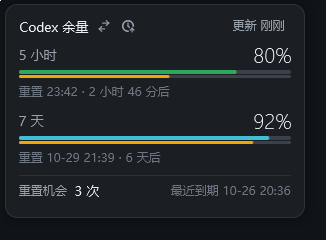
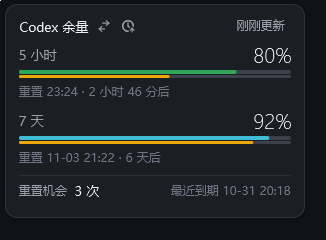
feat: three freshness states; stale data keeps its numbers readable

diff --git a/src/ui.rs b/src/ui.rs
@@ -89,18 +89,39 @@ pub fn neutral_bar(light: bool) -> Rgba {
     }
 }
 
+/// One step lighter than `neutral_bar`: "this number is old", not "this number
+/// is gone". Two different failures need two different greys, otherwise a slow
+/// refresh looks exactly like a broken one.
+pub fn faded_bar(light: bool) -> Rgba {
+    if light {
+        Rgba::hex(0xB2BAC6)
+    } else {
+        Rgba::hex(0x5C6472)
+    }
+}
+
+/// How much the numbers on screen can still be trusted.
+#[derive(Clone, Copy, PartialEq, Eq, Debug)]
+pub enum Freshness {
+    /// fetched on schedule, nothing to apologise for
+    Fresh,
+    /// no error, but the sample is older than `STALE_AFTER`
+    Stale,
+    /// the latest attempt failed; `err` says why
+    Failing,
+}
+
 /// The two bars answer different questions. The 5h bar's colour is its
 /// **severity** (green / amber / red); the 7d bar's colour is its **identity**
 /// (cyan), so the two rows are told apart by colour instead of by weight and
-/// the bar never looks like it changed meaning. Grey wins over both when the
-/// data is stale.
-fn bar_fill(t: &Theme, row: &RowView, dim: bool) -> Rgba {
-    if dim {
-        neutral_bar(t.light)
-    } else if row.limit_secs >= 86_400 {
-        t.day
-    } else {
-        severity(row.remaining)
+/// the bar never looks like it changed meaning. Old data gives up its colour
+/// (faded grey), failed data gives up more (neutral grey).
+fn bar_fill(t: &Theme, row: &RowView, state: Freshness) -> Rgba {
+    match state {
+        Freshness::Failing => neutral_bar(t.light),
+        Freshness::Stale => faded_bar(t.light),
+        Freshness::Fresh if row.limit_secs >= 86_400 => t.day,
+        Freshness::Fresh => severity(row.remaining),
     }
 }
 
@@ -226,7 +247,7 @@ pub struct View {
 /// active cycle (180 s) with room for a retry, and short enough that a genuinely
 /// dead poller is obvious. The countdown bar is exempt — it is derived from the
 /// deadline, which does not rot with the data's age (see `paint_popover`).
-const STALE_AFTER: i64 = 900;
+pub const STALE_AFTER: i64 = 900;
 
 impl View {
     pub fn stale(&self) -> bool {
@@ -234,6 +255,17 @@ impl View {
     }
     pub fn failing(&self) -> bool {
         self.err.is_some() && self.err_at >= self.at
+    }
+    /// One value for the whole card: both painters read it, so the panel and the
+    /// mini can never disagree about how trustworthy the same number is.
+    pub fn freshness(&self) -> Freshness {
+        if self.failing() {
+            Freshness::Failing
+        } else if self.stale() {
+            Freshness::Stale
+        } else {
+            Freshness::Fresh
+        }
     }
 }
 
@@ -474,6 +506,13 @@ pub struct Hits {
 }
 
 /// The header's right-hand text, which doubles as the refresh button's label.
+///
+/// One verb, two states:「2 分钟前更新」when the sample is current and
+/// 「20 分钟未更新」once it is not. The old pair flipped the word order
+/// (「更新 2 分钟前」/「25 分钟前更新」), which read as two different facts when
+/// they were only one — and left the stale case looking like a typo. Swapping
+/// 更新/未更新 says the same thing in the same shape, and tells the user *why*
+/// the bars lost their colour.
 pub fn status_line(v: &View) -> String {
     if v.failing() {
         "更新失败".to_string()
@@ -481,10 +520,11 @@ pub fn status_line(v: &View) -> String {
         "刷新中…".to_string()
     } else if v.at == 0 {
         "读取中…".to_string()
-    } else if v.stale() {
-        format!("{}更新", fmt::ago(v.at, v.now))
+    } else if v.freshness() == Freshness::Stale {
+        // `ago` already says how long: "20 分钟前" -> "20 分钟未更新"
+        format!("{}未更新", fmt::ago(v.at, v.now).trim_end_matches('前'))
     } else {
-        format!("更新 {}", fmt::ago(v.at, v.now))
+        format!("{}更新", fmt::ago(v.at, v.now))
     }
 }
 
@@ -634,6 +674,7 @@ pub fn paint_popover(c: &mut Canvas, v: &View, t: &Theme, hover: Hover, scale: f
 
     let pad = s(PAD);
     let failing = v.failing();
+    let fresh = v.freshness();
     let hits = header_hits(v, scale, f);
 
     // header: title + switch on the left, refresh on the right ------------
@@ -751,12 +792,18 @@ pub fn paint_popover(c: &mut Canvas, v: &View, t: &Theme, hover: Hover, scale: f
             s(130.0) as i32,
             s(26.0) as i32,
             Align::Right,
-            if failing || v.stale() {
-                t.muted
-            } else if !v.show_used && row.remaining < 40.0 {
-                severity(row.remaining)
-            } else {
-                t.text
+            // Stale numbers stay readable: they are still the best estimate we
+            // have, and greying them made the card look switched off. Only a
+            // failed fetch mutes them, because then we cannot vouch for them at
+            // all. Either way the severity tint is withdrawn — the colour was
+            // claiming a bucket the old sample may no longer be in.
+            match fresh {
+                Freshness::Failing => t.muted,
+                Freshness::Stale => t.text,
+                Freshness::Fresh if !v.show_used && row.remaining < 40.0 => {
+                    severity(row.remaining)
+                }
+                Freshness::Fresh => t.text,
             },
         );
 
@@ -769,7 +816,7 @@ pub fn paint_popover(c: &mut Canvas, v: &View, t: &Theme, hover: Hover, scale: f
             s(BAR_H),
             frac as f32,
             t.track,
-            bar_fill(t, row, failing || v.stale()),
+            bar_fill(t, row, fresh),
         );
 
         // the time bar: full right after a reset, empty at the deadline.
@@ -917,15 +964,11 @@ pub fn paint_mini(c: &mut Canvas, v: &View, t: &Theme, hover: bool, scale: f32, 
     );
 
     let failing = v.failing();
+    let fresh = v.freshness();
     let rows = &v.rows;
     for i in 0..2.min(rows.len()) {
         let row = &rows[i];
         let y = if i == 0 { s(11.0) } else { s(30.0) };
-        let sev = if failing || v.stale() {
-            neutral_bar(t.light)
-        } else {
-            severity(row.remaining)
-        };
         card.text(
             &f.mini_label,
             &row.short,
@@ -954,7 +997,7 @@ pub fn paint_mini(c: &mut Canvas, v: &View, t: &Theme, hover: bool, scale: f32, 
             s(bar_h),
             frac as f32,
             t.track,
-            bar_fill(t, row, failing || v.stale()),
+            bar_fill(t, row, fresh),
         );
         // and the countdown bar underneath, one dp thinner than in the panel
         // because this card only has 50 dp to give. Amber even when the quota
@@ -983,12 +1026,13 @@ pub fn paint_mini(c: &mut Canvas, v: &View, t: &Theme, hover: bool, scale: f32, 
             s(35.0) as i32,
             s(12.0) as i32,
             Align::Right,
-            if failing || v.stale() {
-                t.muted
-            } else if !v.show_used && row.remaining < 40.0 {
-                sev
-            } else {
-                t.text
+            match fresh {
+                Freshness::Failing => t.muted,
+                Freshness::Stale => t.text,
+                Freshness::Fresh if !v.show_used && row.remaining < 40.0 => {
+                    severity(row.remaining)
+                }
+                Freshness::Fresh => t.text,
             },
         );
     }
@@ -1042,16 +1086,36 @@ mod tests {
     }
 
     /// The weekly bar is an identity colour: it must not drift into the 5h
-    /// severity palette, and both bars go grey together when the data is stale.
+    /// severity palette, and old data drops out of both palettes.
     #[test]
     fn weekly_bar_keeps_its_own_colour() {
         let t = theme(true);
-        assert_eq!(bar_fill(&t, &row(18_000, 90.0), false), severity(90.0));
-        assert_eq!(bar_fill(&t, &row(604_800, 90.0), false), t.day);
-        assert_eq!(bar_fill(&t, &row(604_800, 10.0), false), t.day);
-        assert_eq!(bar_fill(&t, &row(18_000, 10.0), false), severity(10.0));
-        assert_eq!(bar_fill(&t, &row(604_800, 90.0), true), neutral_bar(true));
-        assert_eq!(&bar_fill(&theme(false), &row(604_800, 90.0), false), &theme(false).day);
+        let fresh = Freshness::Fresh;
+        assert_eq!(bar_fill(&t, &row(18_000, 90.0), fresh), severity(90.0));
+        assert_eq!(bar_fill(&t, &row(604_800, 90.0), fresh), t.day);
+        assert_eq!(bar_fill(&t, &row(604_800, 10.0), fresh), t.day);
+        assert_eq!(bar_fill(&t, &row(18_000, 10.0), fresh), severity(10.0));
+        assert_eq!(&bar_fill(&theme(false), &row(604_800, 90.0), fresh), &theme(false).day);
+    }
+
+    /// Three states, three fills — and the two greys must be far enough apart
+    /// that "old" cannot be mistaken for "broken" at a glance.
+    #[test]
+    fn freshness_gets_a_colour_of_its_own() {
+        let t = theme(true);
+        let w = row(604_800, 90.0);
+        let stale = bar_fill(&t, &w, Freshness::Stale);
+        let failing = bar_fill(&t, &w, Freshness::Failing);
+        assert_eq!(stale, faded_bar(true));
+        assert_eq!(failing, neutral_bar(true));
+        assert_ne!(stale, failing);
+        // faded is closer to the card than the failure grey: lighter in light
+        // mode, darker in dark mode
+        assert!(stale.r > failing.r, "light mode: faded must be lighter");
+        // in dark mode "less prominent" means darker, so the comparison flips
+        let d = theme(false);
+        assert!(faded_bar(false).r < neutral_bar(false).r, "dark mode: faded must sit closer to the track");
+        assert_ne!(bar_fill(&d, &w, Freshness::Fresh), stale);
     }
 
     /// 15 minutes is the line: longer than one active cycle (180 s) with room

diff --git a/src/dev.rs b/src/dev.rs
@@ -127,6 +127,15 @@ pub fn render_all(dir: &str) {
             v.show_time = false;
             v
         }),
+        // the sample is older than STALE_AFTER but nothing failed: the bars lose
+        // their colour, the numbers stay readable. Rendered so the two greys can
+        // be compared against "error" side by side.
+        ("stale", {
+            let mut v = demo_view(now, 20.0, 8.0, None);
+            v.at = now - ui::STALE_AFTER - 300;
+            v.err_at = 0;
+            v
+        }),
         // ...and the clock button under the pointer, promising to bring them back
         ("time-hover", {
             let mut v = demo_view(now, 20.0, 8.0, None);
